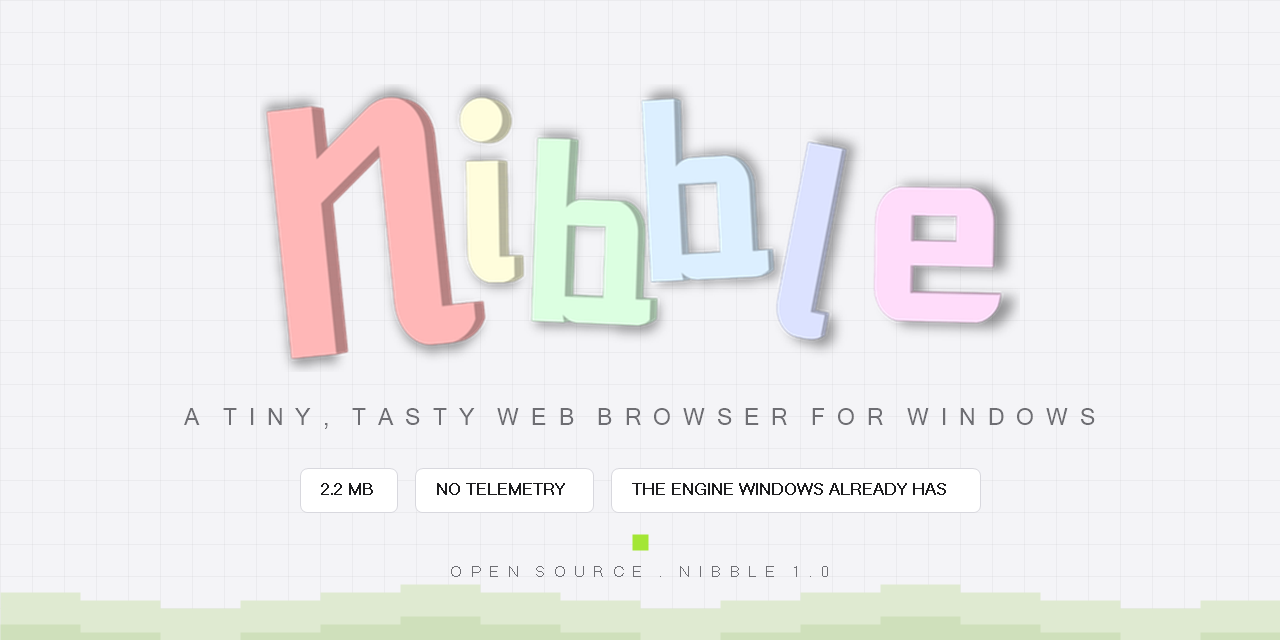
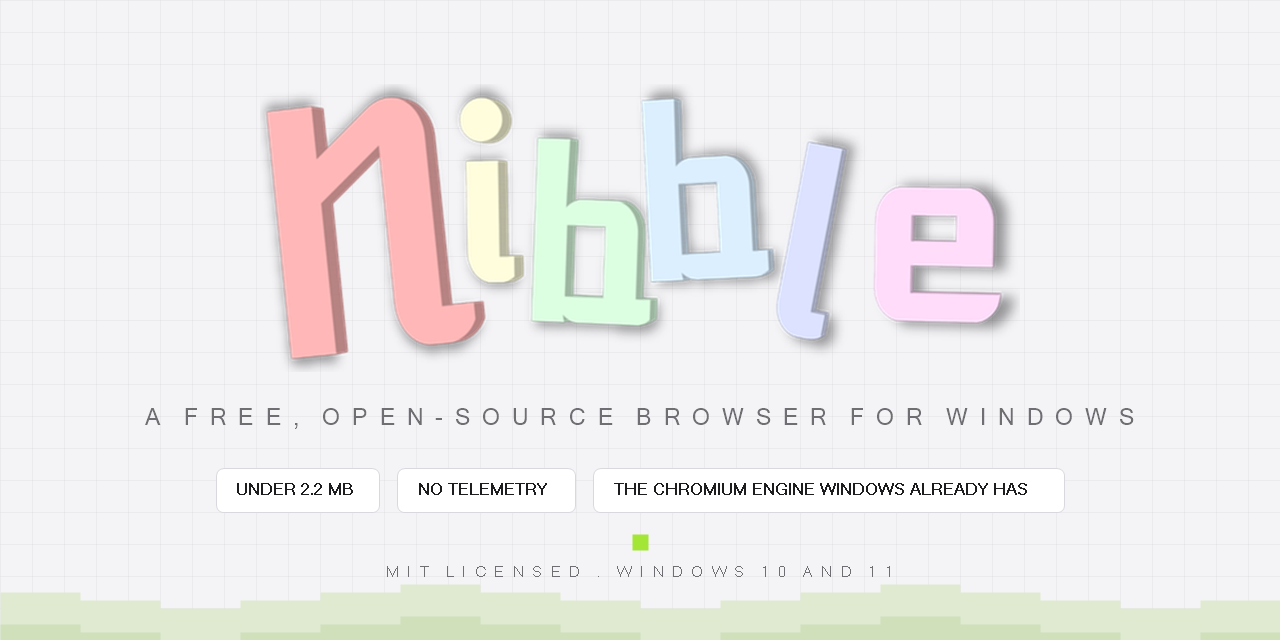
1.1.2: under 2.2 MB, and described like it
The exe drops 52,787 bytes (2,228,347 -> 2,175,560, 2.08 MiB): the page mark and wordmark
were embedded twice, once as WPF resources for the XAML and again as manifest resources for
Pages.ReadEmbeddedBytes. The pages now read the same WPF resource, and the extracted files are
byte-identical (mark.png 5,294, wordmark.png 48,514). That makes the whole browser under 2.2 MB
by any measure, which the size claim needs.

Description, because size and licence are the two strongest things this project has:
- README opens with 'A free, open-source web browser for Windows in under 2.2 MB', and says
  plainly that it is a shell over the Chromium engine Windows already ships, not a Chromium
  build
- new 'Why it is this small' (what borrowing the engine buys: seconds to build, no 150 MB
  download, Microsoft's monthly engine patches - and what it costs: no extensions, no patching
  the engine yourself)
- new 'Make it your browser', plus docs/rebranding.md: every place the name, artwork and URLs
  live, and the five that break something if you miss them (assembly name, pack URIs, the
  installer's AppId, the profile folder, and the feed URL that would update a fork into Nibble)
- assets/social-preview.png redrawn for the new wording, without a version number on it

diff --git a/src/Nibble/Services/Pages.cs b/src/Nibble/Services/Pages.cs
@@ -153,12 +153,14 @@ public static class Pages
     {
         try
         {
-            var assembly = typeof(Pages).Assembly;
-            var resource = assembly.GetManifestResourceNames()
-                .FirstOrDefault(n => n.EndsWith("." + name, StringComparison.OrdinalIgnoreCase));
+            // The brand images are WPF resources (XAML draws them), and this pulls the same
+            // bytes out to sit next to the extracted pages. They used to be embedded a second
+            // time as manifest resources for this call alone: 53,808 bytes of the bundle were
+            // the same two PNGs twice, which is what kept the exe above 2.2 MB.
+            var resource = System.Windows.Application.GetResourceStream(
+                new Uri($"pack://application:,,,/Nibble;component/Assets/{name}", UriKind.Absolute));
             if (resource is null) return [];
-            using var stream = assembly.GetManifestResourceStream(resource);
-            if (stream is null) return [];
+            using var stream = resource.Stream;
             using var buffer = new MemoryStream();
             stream.CopyTo(buffer);
             return buffer.ToArray();

diff --git a/README.md b/README.md
@@ -1,14 +1,18 @@
-# Nibble 1.0
+# Nibble
 
 ![Nibble](assets/nibble-logo.png)
 
-A tiny, tasty web browser for Windows. Apple-clean shell with a pixel streak: smooth
-open-source vector icons, stair-stepped pixel corners, one accent colour you choose,
-hairline separators, and springy 120–240 ms motion on top of a real Chromium engine.
+**A free, open-source web browser for Windows in under 2.2 MB.** Not a Chromium build — a
+shell over the Chromium engine Windows already ships (Microsoft Edge WebView2), which is why
+the whole browser is one exe you can email to somebody.
 
-The engine is the one Windows already ships — Microsoft Edge WebView2 — so Nibble itself is
-**one 2.2 MB exe**. No bundled browser, no services, no accounts, no telemetry, and nothing
-left running when the last window closes.
+Apple-clean with a pixel streak: smooth open-source vector icons, stair-stepped pixel corners,
+one accent colour you choose, hairline separators, springy 120–240 ms motion, and a real
+Chromium engine underneath — the one Windows keeps patched for you.
+
+No telemetry, no accounts, no services, no bloat, and nothing left running when the last window
+closes. **MIT licensed: fork it, rebrand it, and ship it as your own browser** — see
+[Make it your browser](#make-it-your-browser).
 
 ## Gallery
 
@@ -38,7 +42,7 @@ drift away from the app.
 ## Install
 
 **[Download the installer](https://github.com/DallenLarson/nibble/releases/latest)** —
-`Nibble-1.1.1-Setup.exe`, 2.8 MB. (`Nibble.exe` on its own is there too, for a machine you
+`Nibble-1.1.2-Setup.exe`, 2.8 MB. (`Nibble.exe` on its own is there too, for a machine you
 would rather not install to.)
 
 It is a per-user Inno Setup installer — no administrator prompt, files in
@@ -50,8 +54,8 @@ Build the browser and the installer in one command:
 
 ```
 powershell -File tools/package.ps1
-  -> dist/Nibble.exe              2.2 MB, the whole browser
-  -> dist/Nibble-1.1.1-Setup.exe  the installer
+  -> dist/Nibble.exe              under 2.2 MB, the whole browser
+  -> dist/Nibble-1.1.2-Setup.exe  the installer
 ```
 
 That needs the .NET SDK, and [Inno Setup 6](https://jrsoftware.org/isdl.php) for the installer
@@ -61,6 +65,40 @@ That needs the .NET SDK, and [Inno Setup 6](https://jrsoftware.org/isdl.php) for
 > on, Windows refuses to run unsigned binaries — not a warning, a block. See
 > [Before you ship it to strangers](#before-you-ship-it-to-strangers); it is the one thing
 > standing between this source and a stranger's PC.
+
+## Why it is this small
+
+Most browsers ship their own copy of Chromium: 150–300 MB of engine, its own updater, its own
+process for patching it. Nibble ships **none of that**. It drives the WebView2 runtime that
+Windows already has — the same Chromium Microsoft Edge uses, already installed on Windows 10
+and 11, already kept current by Edge Update. Nibble is the part you can actually see: the
+chrome, the tabs, the home page, the themes, the privacy settings.
+
+That is the whole trick, and it buys a lot:
+
+| | Nibble | A browser that bundles Chromium |
+|---|---|---|
+| Download | one ~2.2 MB exe | 80–150 MB |
+| Build it yourself | seconds (no engine checkout, no `gn gen`) | hours, tens of GB of toolchain |
+| Engine updates | Microsoft's, monthly, automatic | the browser's own job, forever |
+| Memory | just the pages you have open | engine code that has to live somewhere |
+
+It costs something too, and it is worth saying plainly: the engine is not yours to patch, so a
+Chromium vulnerability is Microsoft's to fix and not something Nibble can ship around. Chrome
+Web Store extensions cannot work — WebView2 does not run them. And the two pieces it needs
+(.NET 8 Desktop Runtime and WebView2) are both things Windows already ships, and the installer
+checks for both.
+
+## Make it your browser
+
+Nibble is **MIT licensed** and built to be taken: one project, no Chromium to check out, a full
+build in seconds, and a `docs/rebranding.md` that lists every place the name, artwork and URLs
+live — including the five that break something if you miss them (the assembly name, the pack
+URIs, the installer's AppId, the profile folder, and the update feed).
+
+Rename it, drop in your own logo and accent, point the updater at your own releases, and it is
+your browser. The parts that cost real money elsewhere — the engine, its update pipeline, the
+rendering, the sandbox, the network stack — are the parts Windows gives you.
 
 ## Updates
 
@@ -457,7 +495,7 @@ The shell is deliberately small; the engine is the one Windows already has.
 
 | Fact | Value |
 |---|---|
-| `Nibble.exe` | 2.2 MB single file, framework-dependent, no symbols |
+| `Nibble.exe` | 2,175,560 bytes (2.08 MiB) — one file, framework-dependent, no symbols |
 | Host runtime | .NET 8, tiered compilation + TieredPGO on, server GC off |
 | ReadyToRun | off: measured neutral at this size (~953 ms vs ~960 ms cold start) and +0.9 MB |
 | Engine | WebView2 (Microsoft-signed, shared, updated by Edge Update) |
@@ -629,7 +667,7 @@ Windows-only, and needed for anything that touches the shell:
 
 ```
 powershell -File tools/SmokeTest.ps1   -Exe dist\Nibble.exe -Profile scratch\smoke-profile
-powershell -File tools/InstallerTest.ps1 -Setup dist\Nibble-1.1.1-Setup.exe
+powershell -File tools/InstallerTest.ps1 -Setup dist\Nibble-1.1.2-Setup.exe
 powershell -File tools/UpdateTest.ps1            # builds a 9.9.9 "release" and updates into it
 ```
 
@@ -647,6 +685,7 @@ not** — 16 checks. On a machine with Smart App Control on, the uninstaller its
 
 Because this machine blocks freshly built DLLs under Application Control, the .NET suites have
 to be published as single-file executables to run.
+
 
 
 

diff --git a/docs/rebranding.md b/docs/rebranding.md
@@ -1,0 +1,105 @@
+# Make it your browser
+
+Nibble is MIT licensed, which means you can take it, rename it, and ship it as your own
+browser. Because it is a shell over the engine Windows already ships, there is no Chromium to
+check out or build: this repository is the whole product, and a full build takes seconds
+rather than hours.
+
+This page is the list of places the name, the artwork and the URLs live, in the order that
+breaks something if you skip it.
+
+## Before you start
+
+- **Keep the licences.** `LICENSE`, `Icons-LICENSE.txt`, `Silkscreen-OFL.txt`,
+  `Monocraft-OFL.txt` and `THIRD-PARTY-NOTICES.txt` travel with the icons and fonts inside the
+  app; MIT and the two font licences require that they stay with any copy you distribute.
+- **Ask yourself what your build is for.** If you want extensions or a patched engine, this is
+  the wrong base: WebView2 cannot run Chrome extensions, and you cannot change the engine. If
+  you want a small, fast, good-looking browser you can shape, it is the right one.
+
+## The five things that actually break if you miss them
+
+| Where | What | Why |
+|---|---|---|
+| `src/Nibble/Nibble.csproj` | the file name (it is the assembly name) | the pack URIs below are resolved by assembly name |
+| `src/Nibble/Services/Theme.cs`, `Services/Themes.cs`, `Services/Pages.cs` | `pack://application:,,,/Nibble;component/...` | must match the assembly name, or styles and brand art fail to load at runtime |
+| `installer/Nibble.iss` | `AppId={{8A1D2B6C-...}}` | **give it a new GUID.** Two products sharing one AppId overwrite each other's uninstall entry |
+| `src/Nibble/Services/Store.cs` | `%AppData%\Nibble` | a different folder, so your browser and Nibble never share a profile |
+| `src/Nibble/Services/Updater.cs` | `FeedUrl` | points at *this* repository: leave it and your browser updates itself into Nibble |
+
+## The rest, file by file
+
+**Identity**
+
+- `src/Nibble/app.manifest` — `assemblyIdentity name="Nibble.app"`.
+- `src/Nibble/MainWindow.xaml` — the window `Title` and the wordmark image in the header.
+- `src/Nibble/MainWindow.xaml.cs` — user-visible strings, the menu's version row, and the
+  releases URL used by the "updated to" toast.
+- `src/Nibble/OnboardingWindow.xaml(.cs)` — the first-run wizard's "Set up Nibble" title and
+  copy, `N I B B L E` in the header.
+- `src/Nibble/ThemesWindow.xaml(.cs)` — the theme shop's title and "by Nibble" fallback.
+- `src/Nibble/Assets/newtab.html` — the home page's title, the footer line, the tips, the
+  hand-pinned `DECKRISE` shortcut (that one is the author's own site: replace it), and the
+  private-window wording.
+- `src/Nibble/Assets/error.html`, `Assets/Themes/*/theme.json` (`"author"`).
+
+**Windows integration**
+
+- `src/Nibble/Services/BrowserRegistration.cs` — the ProgID (`NibbleHTML`),
+  `Software\Clients\StartMenuInternet\Nibble`, and the description Windows shows in the
+  default-apps list.
+- `src/Nibble/Services/SingleInstance.cs` — the mutex and pipe names, so your build and
+  Nibble can run side by side during development.
+- `src/Nibble/Services/Pages.cs` — the `nibble.pages` virtual host for the built-in pages.
+
+**Artwork** (`tools/Branding` regenerates the icons from `assets/nibble-logo.png`; the page
+mark and wordmark are `src/Nibble/Assets/nibble-mark.png` and `nibble-wordmark.png`)
+
+- `assets/nibble.png`, `assets/nibble-logo.png`, `src/Nibble/Assets/nibble.ico`
+- `tools/SocialCard.ps1` draws the link-preview card and `tools/Shots.ps1` the README
+  screenshots — both have the name in their text.
+
+**Installer** (`installer/Nibble.iss`)
+
+- `AppName`, `AppVersion`, `AppPublisher`, `AppUrl`, `AppExeName`, the output file name, the
+  licence and notes pages, and the shortcut names.
+
+**Build and CI**
+
+- `tools/package.ps1` — the paths and file names it publishes.
+- `tools/InstallerTest.ps1`, `tools/UpdateTest.ps1` — the uninstall key (the AppId above) and
+  the exe path, so the round-trip tests keep working under the new name.
+- `.github/workflows/build.yml` — the artifact name and the release's asset names.
+
+## Checking your work
+
+```
+powershell -File tools/package.ps1     # builds the browser and your installer
+powershell -File tools/verify.ps1      # 39 assertions + the published-exe facts
+powershell -File tools/SmokeTest.ps1 -Exe dist\YOURBROWSER.exe -Profile scratch\smoke
+powershell -File tools/InstallerTest.ps1 -Setup dist\YOURBROWSER-1.0.0-Setup.exe
+```
+
+The smoke test walks the wizard, the menu, the theme shop, a private window and the find bar;
+the installer test installs, runs, uninstalls and checks the profile survives. Between them
+they catch the mistakes this list is about — a stale pack URI shows up as a missing logo, a
+stale AppId as a broken uninstall, a stale feed URL as an update into somebody else's browser.
+
+Finally, search for what is left:
+
+```
+rg -i "nibble" --glob '!dist' --glob '!scratch'
+```
+
+Comments and prose still say Nibble, which is fine — the list above is the code that has to
+change for it to be yours.
+
+## Shipping it
+
+Two things worth knowing before you hand your build to anybody:
+
+- **Sign it.** An unsigned build is refused outright on Windows 11 machines with Smart App
+  Control on, and warned about everywhere else. See the README's "Before you ship it to
+  strangers".
+- **If you keep the updater, keep it pointed at your own releases** and publish the same
+  `YOURBROWSER-<version>-Setup.exe` asset naming, or turn updates off in `Settings.Updates`.

diff --git a/CHANGELOG.md b/CHANGELOG.md
@@ -1,5 +1,32 @@
 # Nibble changelog
 
+## 1.1.2 — smaller, and easier to call your own
+
+**The exe is 52,787 bytes smaller: 2,228,347 → 2,175,560 bytes.** The page mark and the
+wordmark were embedded in the assembly twice — once as WPF resources, because the XAML draws
+them, and again as manifest resources, because `Pages.ReadEmbeddedBytes` pulled them out for
+the built-in pages. The pages now read the same WPF resource, so the second copy is gone. Same
+bytes end up next to the extracted pages (verified: `mark.png` 5,294 and `wordmark.png` 48,514,
+identical to the source), and the whole browser is now **under 2.2 MB by any measure** — 2.08
+MiB.
+
+**How the project describes itself changed**, because the size and the licence are the two
+strongest things it has:
+
+- The repository description now leads with *free, open-source, under 2.2 MB*, and says plainly
+  that it is a shell over the Chromium engine Windows already ships rather than a Chromium
+  build.
+- The README opens the same way, and gained two sections: **Why it is this small** (what
+  borrowing the engine buys, and what it costs — no extensions, no patching the engine
+  yourself) and **Make it your browser**.
+- **`docs/rebranding.md`** is new: every place the name, artwork and URLs live, in the order
+  that breaks something if you skip it. It calls out the five that matter — the assembly name,
+  the pack URIs, the installer's AppId (give it a *new* GUID), the profile folder, and the
+  update feed, which otherwise updates your fork into Nibble.
+- The link-preview card (`assets/social-preview.png`) was redrawn for the new wording.
+
+Nothing about how the browser behaves changed.
+
 ## 1.1.1 — full screen keeps its bottom
 
 **The bug:** in full screen the bottom of the page was cut off. The window was the size of the

diff --git a/docs/release-notes-v1.1.2.md b/docs/release-notes-v1.1.2.md
@@ -1,0 +1,31 @@
+**A smaller Nibble, and a clearer description of what it is.**
+
+## Smaller
+
+The exe is **52,787 bytes smaller** — 2,228,347 → **2,175,560 bytes (2.08 MiB)** — so the whole
+browser is now under 2.2 MB by any measure. The page mark and wordmark were being stored inside
+the assembly twice; they are stored once now. Nothing else about the binary changed.
+
+## Described the way it deserves
+
+The project now says what it is up front: **a free, open-source web browser for Windows in
+under 2.2 MB, and not a Chromium build** — a shell over the Chromium engine Windows already
+ships, which is why it is this small and why building it takes seconds instead of hours. The
+README explains what borrowing the engine buys and what it costs (no Chrome Web Store
+extensions, and the engine is Microsoft's to patch, not ours).
+
+## Easier to call your own
+
+Nibble is MIT licensed and built to be forked. New [`docs/rebranding.md`](https://github.com/DallenLarson/nibble/blob/main/docs/rebranding.md)
+lists every place the name, artwork and URLs live — and the five that break something if you
+miss them: the assembly name, the WPF pack URIs, the installer's AppId, the profile folder, and
+the update feed (leave that pointing at this repository and your browser updates itself into
+Nibble).
+
+## Install
+
+**[Download `Nibble-1.1.2-Setup.exe`](https://github.com/DallenLarson/nibble/releases/latest)**
+— per-user, no administrator prompt. `Nibble.exe` on its own is there too.
+
+Already on 1.1.0 or later? This arrives on its own the next time Nibble starts. On anything
+older, one manual download gets you to the version that updates itself.

diff --git a/docs/launch-checklist.md b/docs/launch-checklist.md
@@ -5,7 +5,7 @@ Ordered by what blocks a real person from using it.
 
 ## Already in place, so it does not get re-litigated
 
-- 1.1.1 in the project file, the app manifest, the menu and the page footer.
+- 1.1.2 in the project file, the app manifest, the menu and the page footer.
 - `tools/package.ps1` builds `dist/Nibble.exe` (2.2 MB) and `dist/Nibble-1.1.0-Setup.exe`.
 - `tools/verify.ps1` passes: 67 assertions across four suites, plus the published-exe facts.
 - `tools/SmokeTest.ps1` walks the first run and every surface: 25 steps, 0 failures, empty log.
@@ -81,6 +81,7 @@ Ordered by what blocks a real person from using it.
 
 Passwords, autofill, sync, extensions, a password manager, a shopping assistant, a news feed,
 an AI sidebar. Each one is a decision to make later, not an oversight.
+
 
 
 
